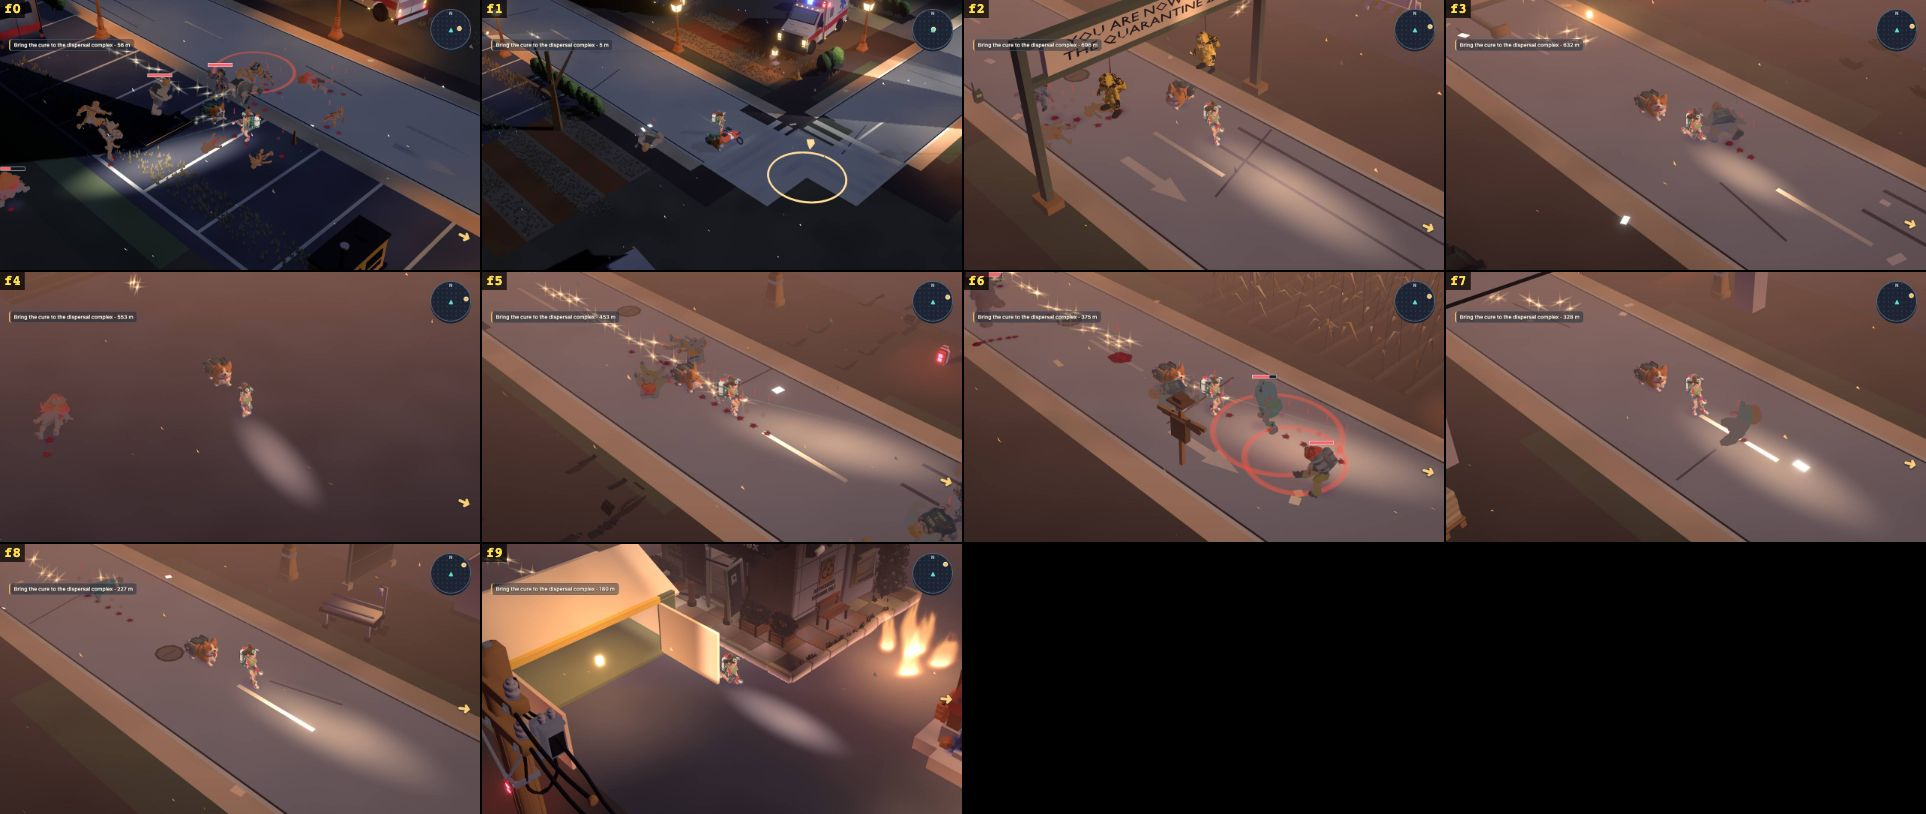
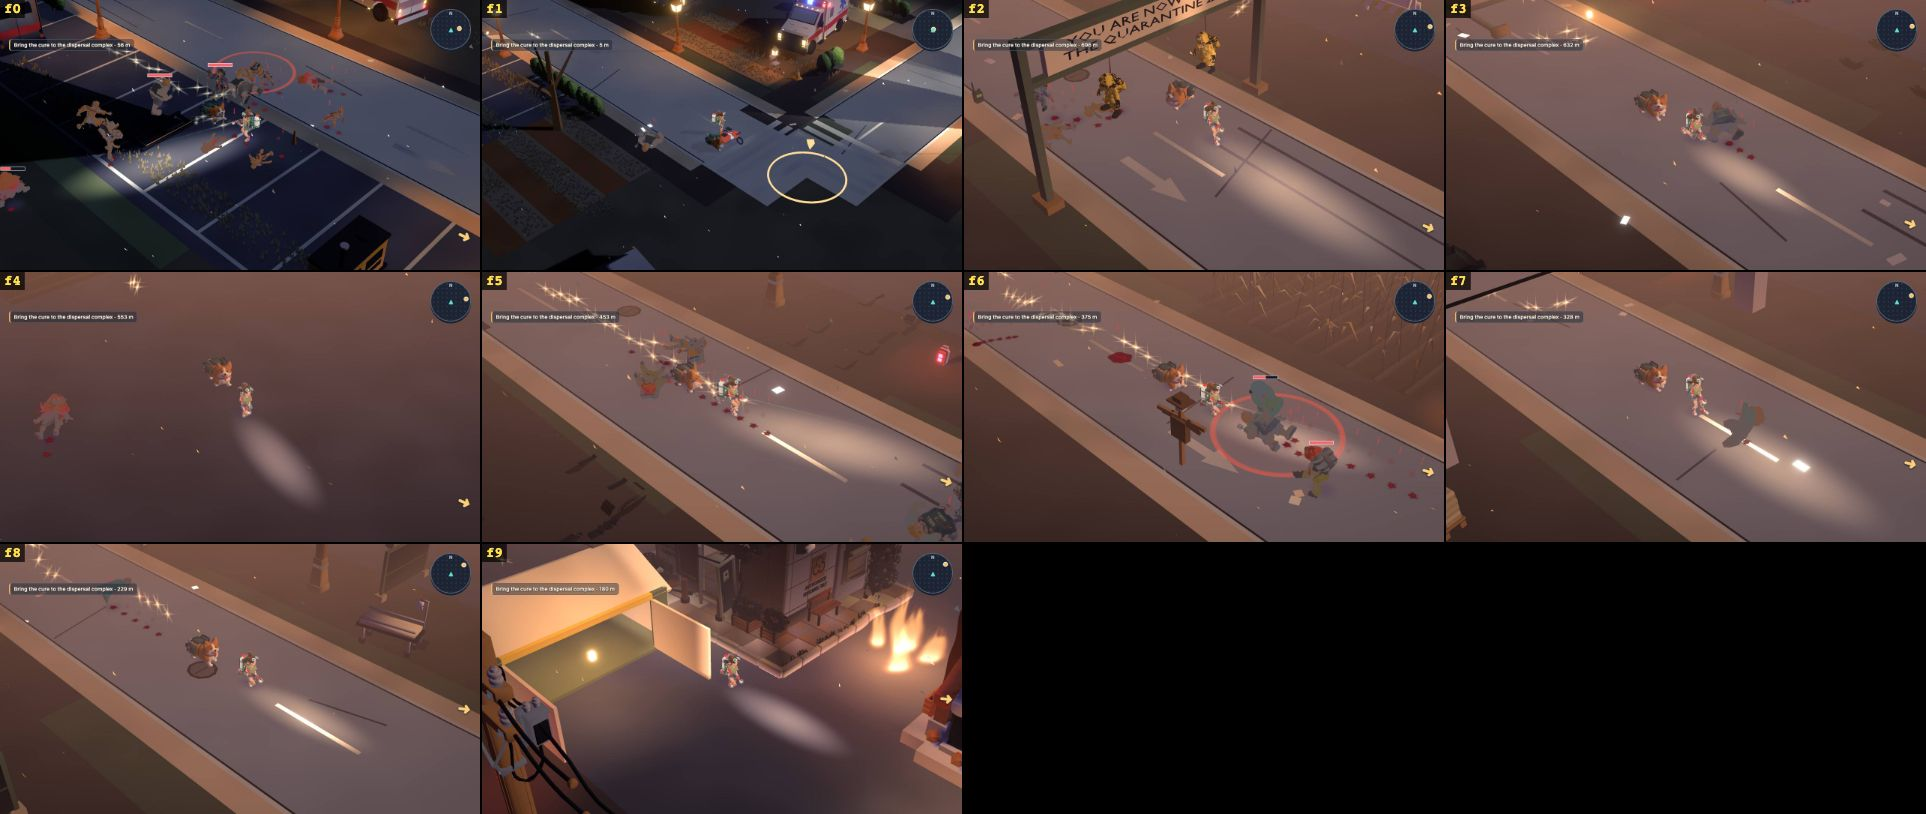
capture: record finale story triggers

diff --git a/tools/qa/s212e-native-captures.ts b/tools/qa/s212e-native-captures.ts
@@ -3,20 +3,20 @@ import { SceneSession, stopServer } from '../scenelab/session';
 import type { Game } from '../../src/Game';
 const out = resolve('docs/reports/s212e-finale');
 const s = new SceneSession({ backend: 'webgl2', tier: 'high', viewport: { width: 1280, height: 720 } });
-const beats = [2750, 2800, 3010, 3076, 3150, 3260, 3340, 3390, 3502, 3550];
+const beats = 10;
 try {
   await s.open();
   await s.page.evaluate(async () => { const a = window.__SS__!; await a.loadLevel('L10', { seed: 1, checkpoint: 'cure-research' }); a.pause(); a.camera.follow(); a.camera.zoom(1); a.bot.start('complete'); });
   const cells: { frame: number; jpeg: Buffer }[] = [];
   let next = 0;
-  for (let i = 0; i < 3000 && next < beats.length; i++) {
-    const state = await s.page.evaluate(async () => { await window.__SS__!.step(30); const w = (window.__SCENE__ as unknown as {game: Game}).game.world; const p = w.entities.get(1)!, bike = w.vehicles?.bicycle.entity, dog = [...w.entities.iterate()].find(e => e.companion); return { x: p.transform.x, z: p.transform.z, tick: w.tick, phase: w.missions!.state.phase, riding: !!w.vehicles?.bicycle.riding, bikeId: bike?.id, corgiPassengerOf: dog?.passengerOf }; });
-    if (state.x >= beats[next]) {
+  for (let i = 0; i < 3000 && next < beats; i++) {
+    const state = await s.page.evaluate(async () => { await window.__SS__!.step(30); const w = (window.__SCENE__ as unknown as {game: Game}).game.world; const p = w.entities.get(1)!, bike = w.vehicles?.bicycle.entity, dog = [...w.entities.iterate()].find(e => e.companion); return { x: p.transform.x, z: p.transform.z, tick: w.tick, phase: w.missions!.state.phase, riding: !!w.vehicles?.bicycle.riding, bikeId: bike?.id, corgiPassengerOf: dog?.passengerOf, beats: Array.from({ length: 10 }, (_, n) => !!w.missions!.state.states[`l10-finale-beat-${n}`]) }; });
+    if (state.beats[next]) {
       await s.page.evaluate(async () => window.__SS__!.screenshotReady());
       await s.screenshot(`${out}/native-beat-${next}.png`);
       cells.push({ frame: next, jpeg: await s.snapshot() }); console.log(JSON.stringify({ beat: next, ...state })); next++;
     }
   }
   if (cells.length) console.log(JSON.stringify(await s.makeSheet(cells, `${out}/native-finale.jpg`, 480, 900)));
-  if (cells.length !== beats.length) throw new Error(`Only ${cells.length}/${beats.length} beats reached`);
+  if (cells.length !== beats) throw new Error(`Only ${cells.length}/${beats} beats reached`);
 } finally { await s.close(); stopServer(); }

diff --git a/docs/reports/s212e-finale/README.md b/docs/reports/s212e-finale/README.md
@@ -51,7 +51,7 @@ The headless capture script runs through `tools/e2e-lock.sh` on ports 5215/5216.
 
 A separate HIGH zoom 1 diagnostic teleported the player to the parked motorbike, mounted with E and drove for 120 ticks. The simulation reported a mounted motorbike at 9.375 m/s and the corgi as its passenger. The frame was inspected: the rider and corgi are very small, a large translucent shape obscures them, and the early objective remains visible. This staged image is not an acceptable native route capture; it remains uncommitted, and the capture script documents its setup.
 
-The headless `s212e-native-captures.ts` pass starts at the research checkpoint and advances the ordinary skilled bot, without teleporting after setup. Its HIGH zoom 1 sheet records the first crossing of each beat's x coordinate. At beat 1 the rider is mounted and the corgi's passenger ID equals the bike ID; both are small in frame. Review: 0 shows a crowded fight by an ambulance; 1 shows the bike at an intersection; 2 shows the gantry and effigies; 3 shows the courier and corgi on the road but no visible billboard; 4 shows them off road in haze; 5 shows combat and bodies near wrecks; 6 shows a fight and telegraphs but no visible Mega throw; 7 shows the courier and corgi on road, without a readable underpass; 8 shows road and a bench, not the hospital; 9 shows a building and fire, not a readable gate approach. The sheet is useful evidence of current framing, but does not demonstrate all authored story beats or a clear sidecar view. A better capture of the actual moments remains required.
+The headless `s212e-native-captures.ts` pass starts at the research checkpoint and advances the ordinary skilled bot, without teleporting after setup. Its HIGH zoom 1 sheet now records when each serialized story beat fires. At beat 1 the rider is mounted and the corgi's passenger ID equals the bike ID; both are small in frame. Review: 0 shows a crowded fight by an ambulance; 1 shows the bike at an intersection; 2 shows the gantry and effigies; 3 shows the courier and corgi on the road but no visible billboard; 4 shows them off road in haze; 5 shows combat and bodies near wrecks; 6 shows a fight and telegraphs but no visible Mega throw; 7 shows the courier and corgi on road, without a readable underpass; 8 shows road and a bench, not the hospital; 9 shows a building and fire, not a readable gate approach. The sheet is useful evidence of current framing, but does not demonstrate all authored story beats or a clear sidecar view. A better capture of the actual moments remains required.
 
 ## Remaining
 
